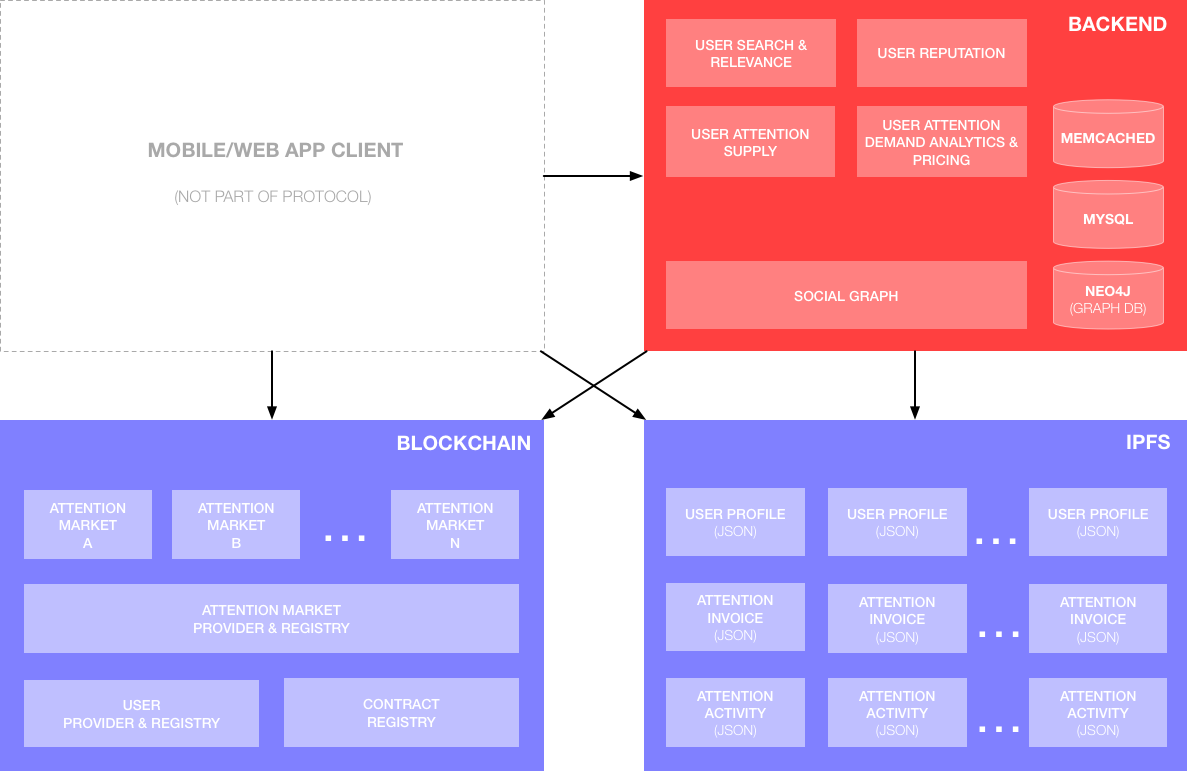
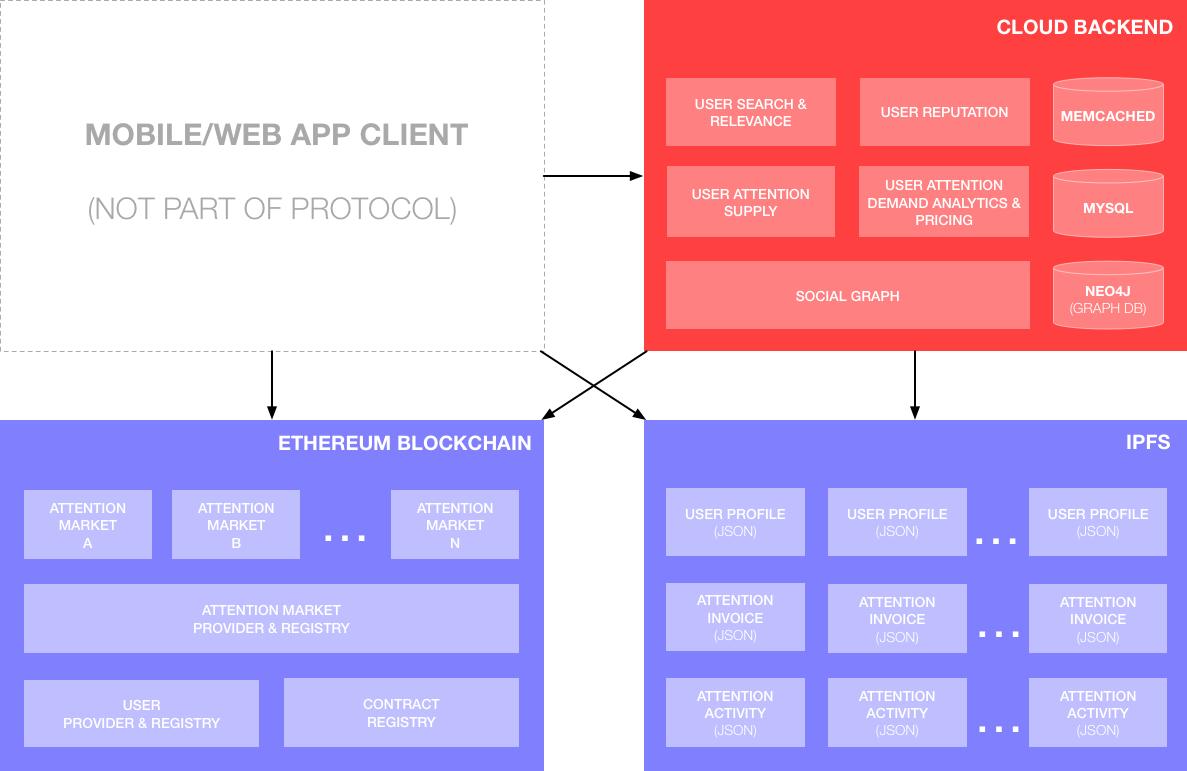
Updated architecture diagrams

diff --git a/docs/protocol/index.html b/docs/protocol/index.html
@@ -331,6 +331,7 @@
                 
                 
                 <h1 id="ping-protocol">Ping Protocol</h1>
+<p>To be completed.</p>
 <p><img alt="Protocol Architecture" src="../images/protocol_architecture.png" /></p>
 <p><img alt="Protocol Contracts" src="../images/protocol_contracts.png" /></p>
                 

diff --git a/pages/protocol.md b/pages/protocol.md
@@ -1,5 +1,7 @@
 # Ping Protocol
 
+To be completed.
+
 ![Protocol Architecture](images/protocol_architecture.png)
 
 ![Protocol Contracts](images/protocol_contracts.png)
